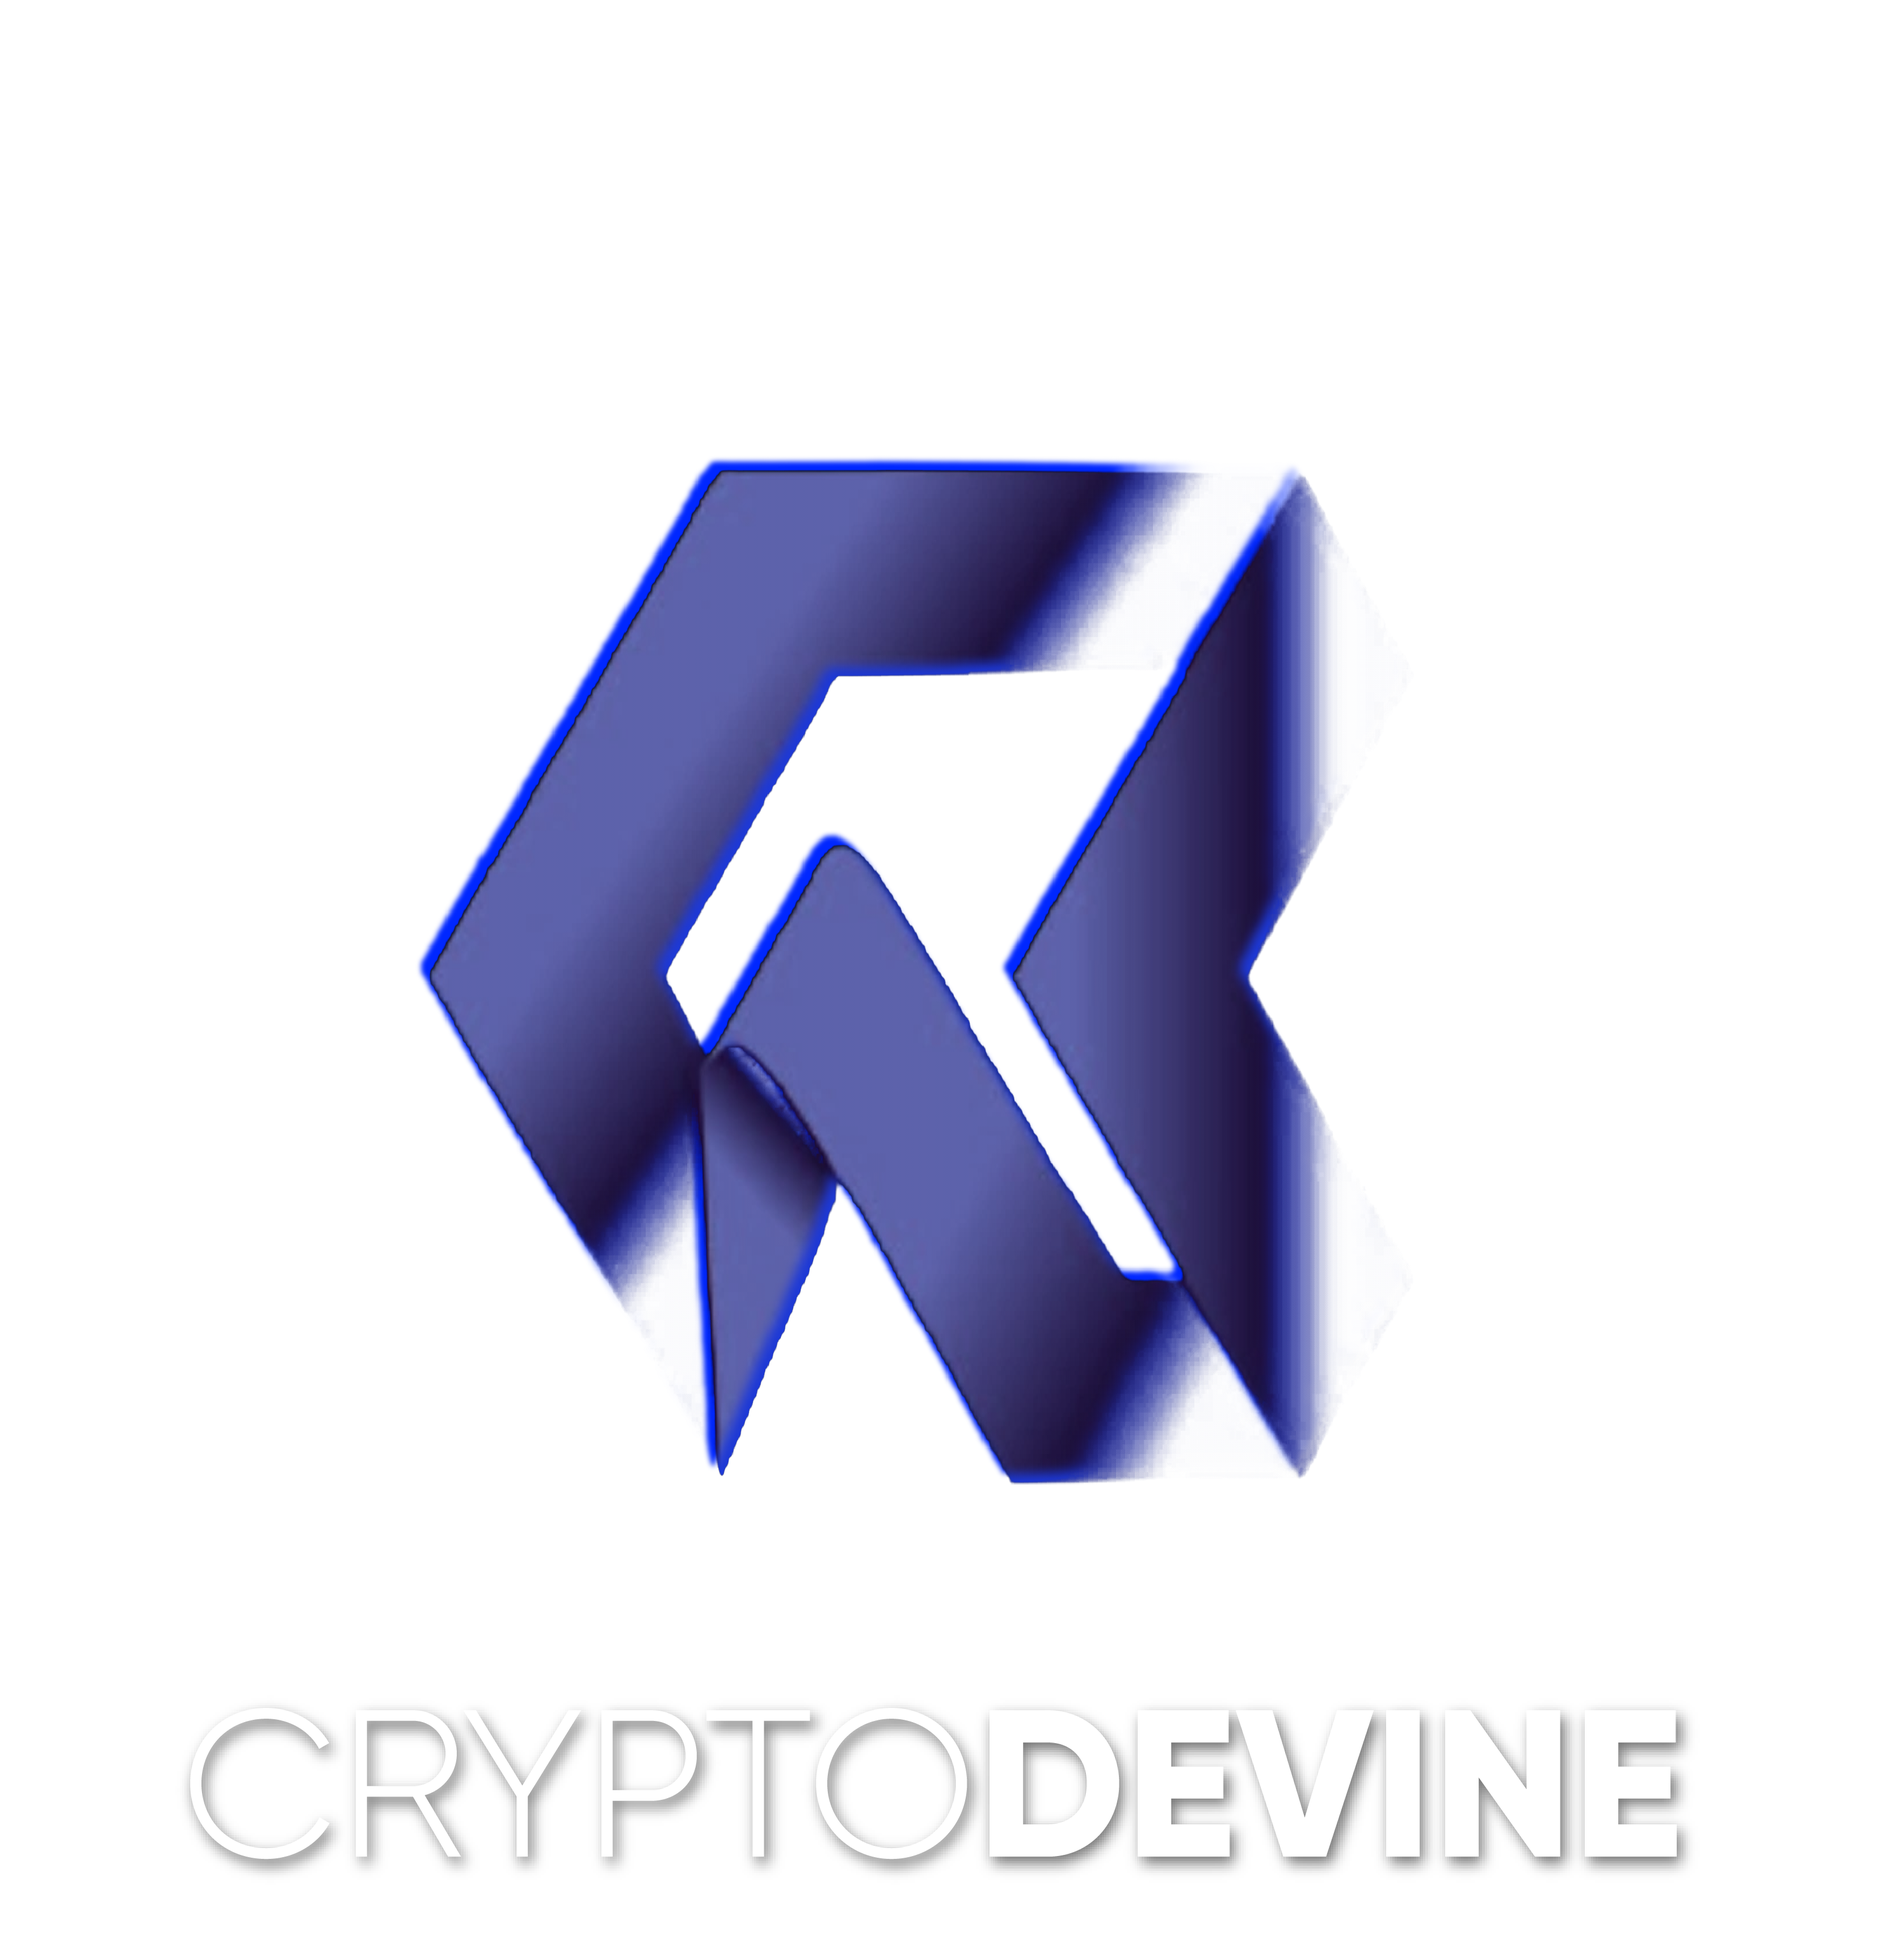
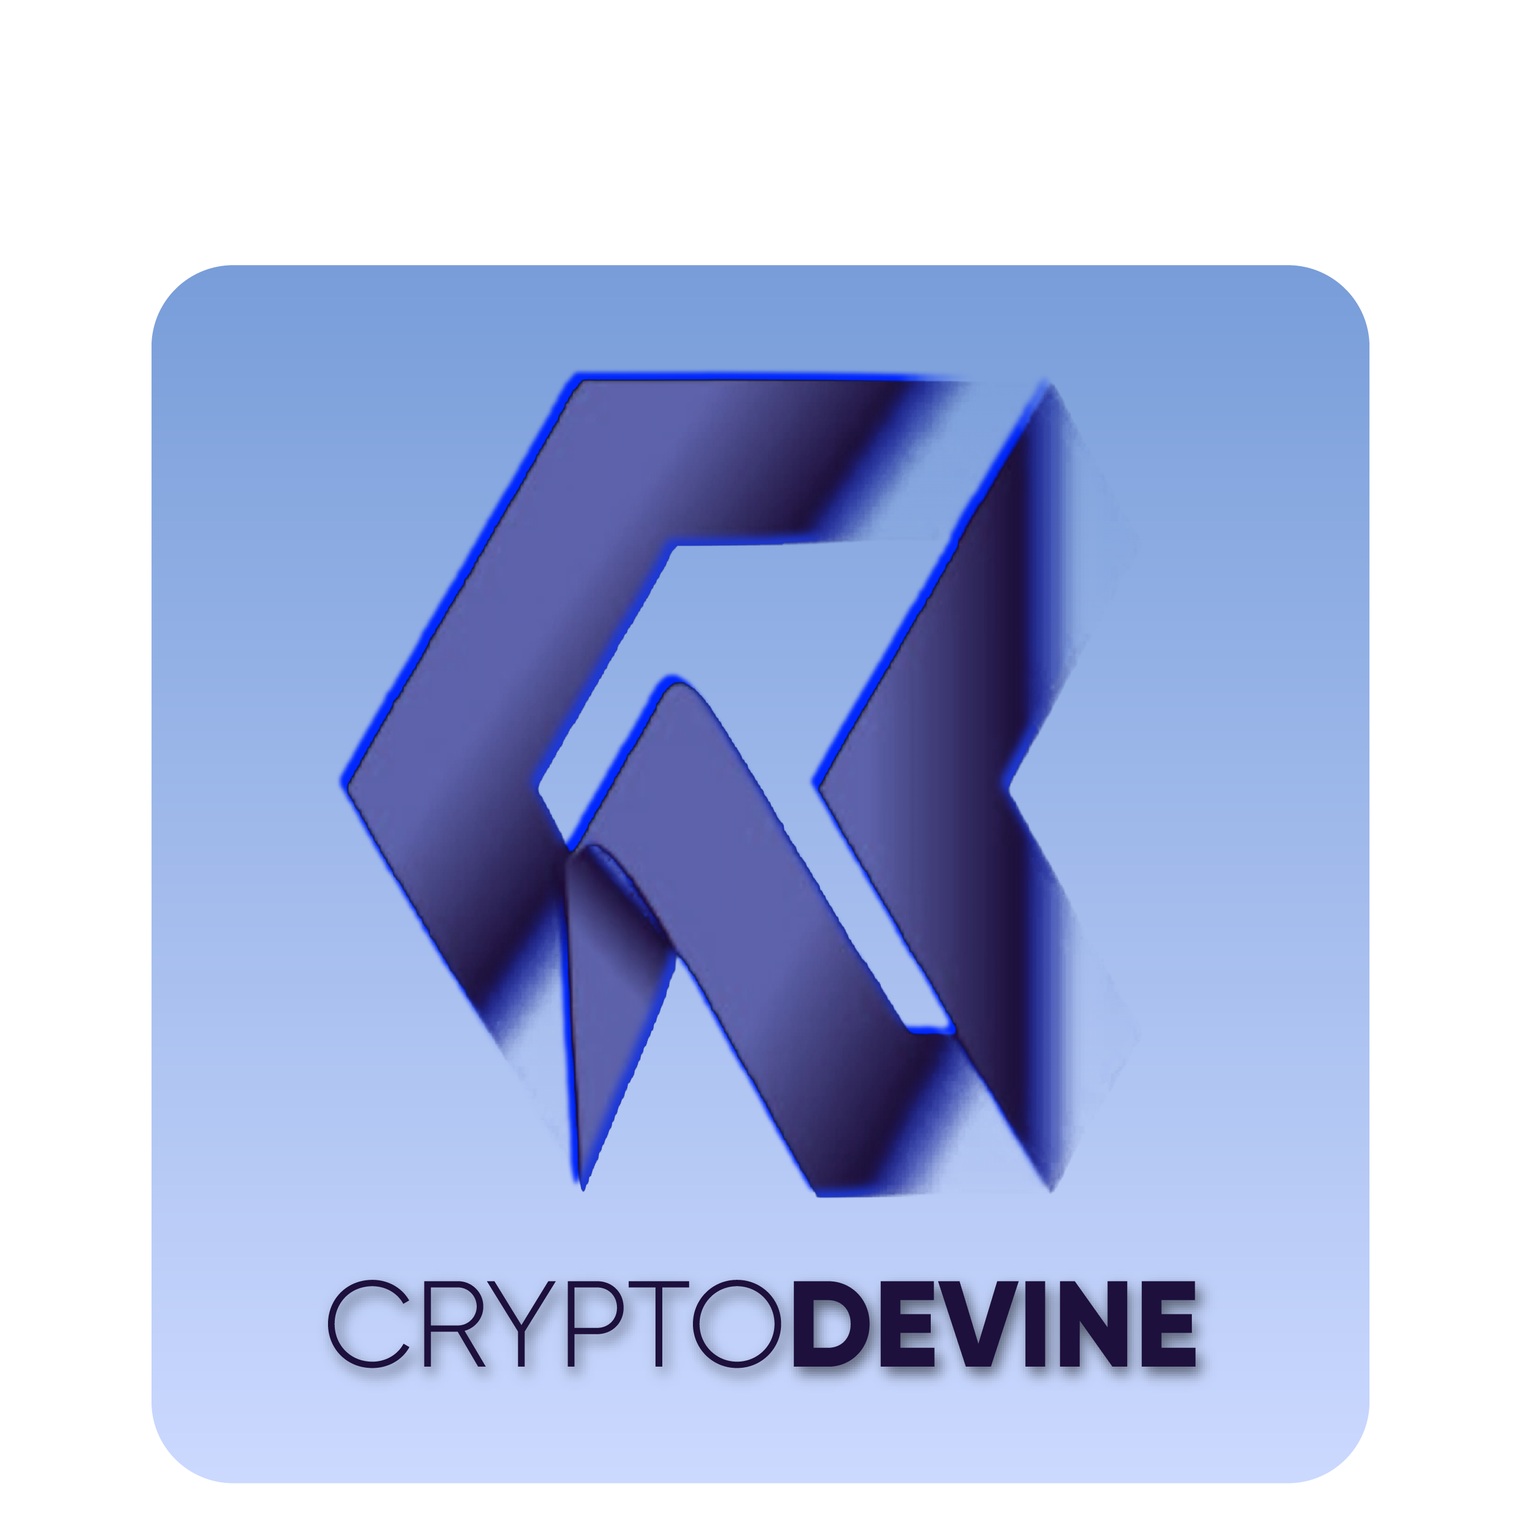
Replace img

diff --git a/src/components/Partners/index.jsx b/src/components/Partners/index.jsx
@@ -68,7 +68,7 @@ export default function Partners() {
           />
           <Partner
             link="https://twitter.com/PejuangCryptoID"
-            img="/media/partners/pejuangcrypto.png"
+            img="/media/partners/pejuangcrypto.jpg"
           />
           <Partner
             link="https://twitter.com/CryptoNews_Indo"
